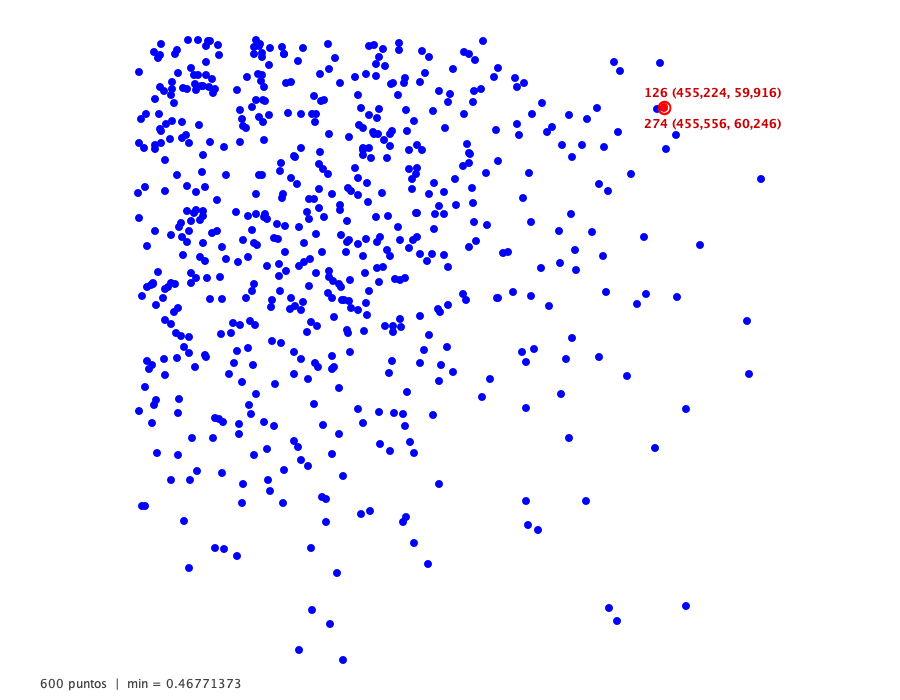
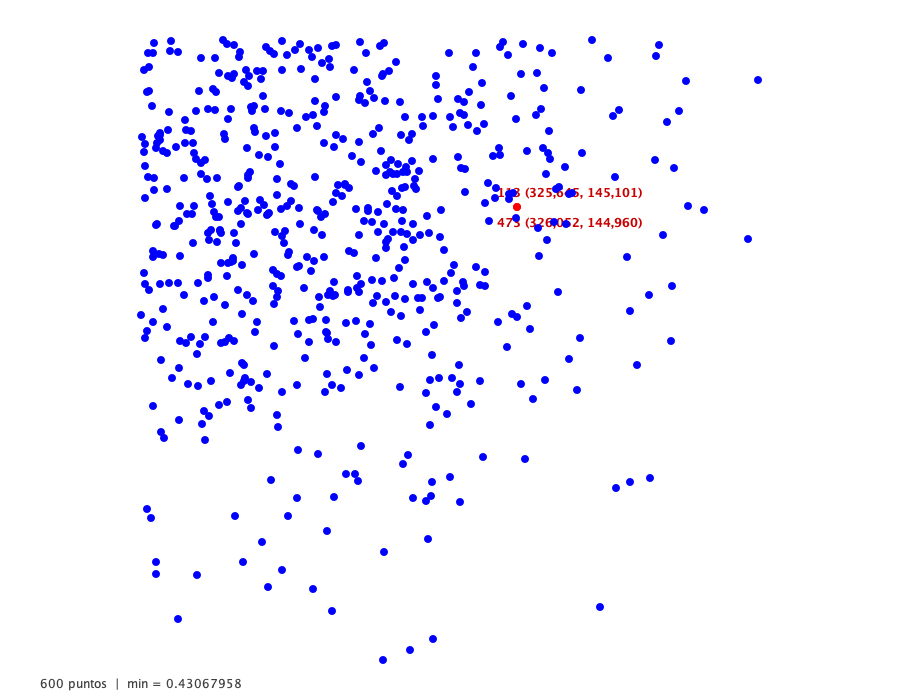
Puntos resultado: solo relleno rojo, sin anillo; imágenes actualizadas

diff --git a/Practica1/src/main/java/com/practica1/vista/PanelGrafico.java b/Practica1/src/main/java/com/practica1/vista/PanelGrafico.java
@@ -159,12 +159,9 @@ public class PanelGrafico extends JPanel {
                     && (p.equals(solucion.getPunto1()) || p.equals(solucion.getPunto2()));
 
             if (esResultado) {
-                // Punto resultado: mismo tamaño, relleno rojo + borde rojo
+                // Punto resultado: mismo tamaño, relleno rojo
                 g2.setColor(Color.RED);
                 g2.fillOval(x, y, TAM_PUNTO, TAM_PUNTO);
-                g2.setColor(Color.RED);
-                g2.setStroke(new BasicStroke(1.5f));
-                g2.drawOval(x - 2, y - 2, TAM_PUNTO + 4, TAM_PUNTO + 4);
             } else {
                 g2.setColor(Color.BLUE);
                 g2.fillOval(x, y, TAM_PUNTO, TAM_PUNTO);
